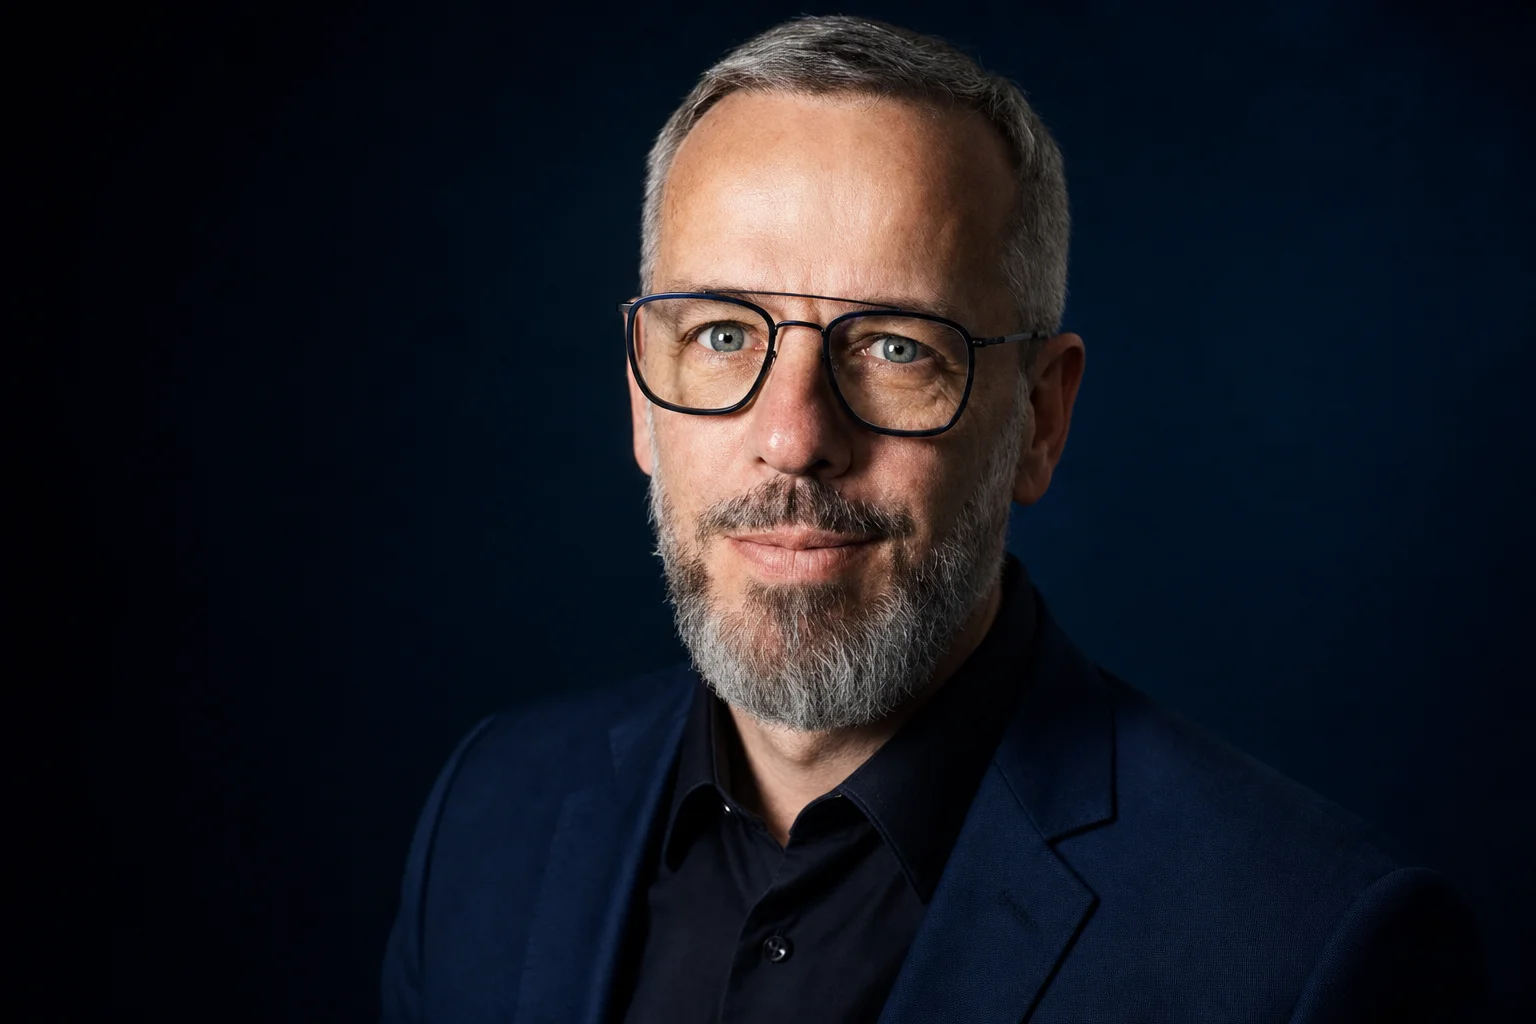
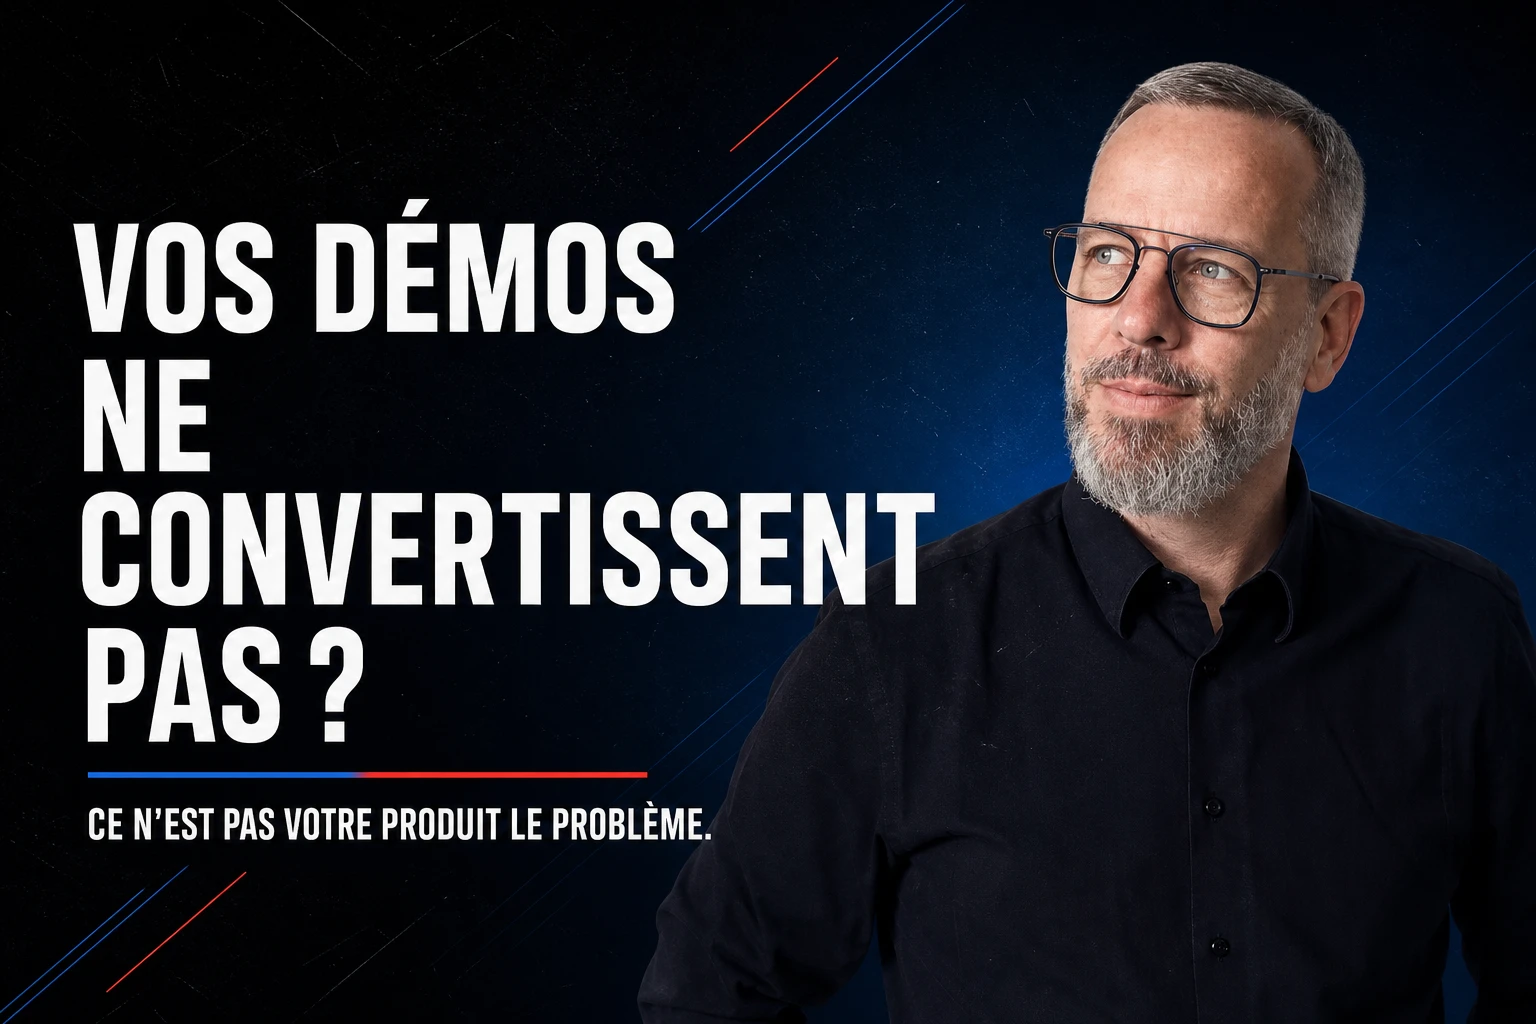
fix: remplacer hero article editeurs logiciels par composition graphique complète (typo + effets)

diff --git a/src/app/blog/editeurs-logiciels-pourquoi-demos-ne-convertissent-pas/page.tsx b/src/app/blog/editeurs-logiciels-pourquoi-demos-ne-convertissent-pas/page.tsx
@@ -23,9 +23,9 @@ export const metadata: Metadata = {
     images: [
       {
         url: 'https://www.laurentserre.com/images/blog/2026-05-28-editeurs-logiciels-demos-hero.webp',
-        width: 2048,
-        height: 1365,
-        alt: 'Laurent Serre, expert en coaching commercial pour éditeurs de logiciels',
+        width: 1536,
+        height: 1024,
+        alt: 'Composition graphique éditoriale avec Laurent Serre : Vos démos ne convertissent pas ? Ce n\'est pas votre produit le problème.',
       },
     ],
   },